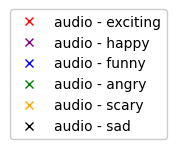
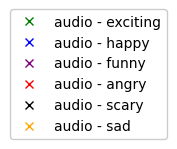
Updated visualization code.

diff --git a/climur/utils/visualize.py b/climur/utils/visualize.py
@@ -9,7 +9,7 @@ import matplotlib.pyplot as plt
 from typing import Dict
 
 
-def visualize_embeds(image_embeds: ndarray, image_labels: ndarray, audio_embeds: ndarray, audio_labels: ndarray, label2color: Dict, save_path: str) -> None:
+def visualize_embeds(image_embeds: ndarray, image_labels: ndarray, audio_embeds: ndarray, audio_labels: ndarray, label2color: Dict, save_path: str, plot_title: str) -> None:
     """Visualizes image and audio embeddings together with t-SNE.
 
     Args:
@@ -23,6 +23,7 @@ def visualize_embeds(image_embeds: ndarray, image_labels: ndarray, audio_embeds:
             shape: (n_audio_clips, )
         label2color (dict): Dictionary mapping emotion labels to colors.
         save_path (str): Path to save plot.
+        plot_title (str): Plot title.
     
     Returns: None
     """
@@ -61,7 +62,7 @@ def visualize_embeds(image_embeds: ndarray, image_labels: ndarray, audio_embeds:
     # create plot:
     fig = plt.figure()
     plt.rcParams["font.size"] = 10
-    ax = fig.add_subplot(111)     # what is this?
+    ax = fig.add_subplot(1, 1, 1)
 
     for label in emotion_labels:
         # get images t-SNE features for current emotion label:
@@ -70,7 +71,7 @@ def visualize_embeds(image_embeds: ndarray, image_labels: ndarray, audio_embeds:
         assert x_image_feats_curr.shape == y_image_feats_curr.shape, "Error with shape of per-class image t-SNE features."
 
         # add image points to scatter plot:
-        ax.scatter(x_image_feats_curr, y_image_feats_curr, c=label2color[label], marker=".", label=f"image - {label}")
+        ax.scatter(x_image_feats_curr, y_image_feats_curr, c=label2color[label], marker=".")
 
         # get audio t-SNE features for current emotion label:
         x_audio_feats_curr = x_audio_feats[audio_labels == label]
@@ -78,12 +79,12 @@ def visualize_embeds(image_embeds: ndarray, image_labels: ndarray, audio_embeds:
         assert x_audio_feats_curr.shape == y_audio_feats_curr.shape, "Error with shape of per-class audio t-SNE features."
 
         # add audio points to scatter plot:
-        ax.scatter(x_audio_feats_curr, y_audio_feats_curr, c=label2color[label], marker="x", label=f"audio - {label}")
+        ax.scatter(x_audio_feats_curr, y_audio_feats_curr, c=label2color[label], marker="x")
     
     # format plot:
     ax.set_xticks([])
     ax.set_yticks([])
-    ax.legend(loc="best")
+    ax.set_title(plot_title)
 
     # save plot:
     fig.savefig(save_path)

diff --git a/climur/utils/create_visualization_legend.py b/climur/utils/create_visualization_legend.py
@@ -4,8 +4,9 @@
 import os
 import numpy as np
 import matplotlib.pyplot as plt
-from climur.utils.constants import IMAGE2AUDIO_TAG_MAP
 from typing import List, Any
+from climur.utils.constants import IMAGE2AUDIO_TAG_MAP
+from climur.utils.constants import LABEL2COLOR
 
 
 # plots directory:
@@ -30,17 +31,16 @@ def export_legend(legend: Any, save_path: str, expand: List = [-5, -5, 5, 5]):
 if __name__ == "__main__":
     print("\n")
 
-    # set colors:
-    colors = ["red", "purple", "blue", "green", "orange", "black"]
     # create magical function:
     func = lambda m, c: plt.plot([], [], marker=m, color=c, ls="none")[0]
 
 
     # IMAGE DATASET LEGEND:
 
-    # get image dataset emotion labels:
+    # get image dataset emotion labels and colors:
     image_emotion_labels = [f"image - {label}" for label in list(IMAGE2AUDIO_TAG_MAP.keys())]
-    
+    colors = [LABEL2COLOR[IMAGE2AUDIO_TAG_MAP[label]] for label in list(IMAGE2AUDIO_TAG_MAP.keys())]
+
     # create legend:
     handles = [func(".", colors[i]) for i in range(len(colors))]
     legend = plt.legend(handles, image_emotion_labels, loc=3, framealpha=1, frameon=True)
@@ -53,9 +53,10 @@ if __name__ == "__main__":
 
 
     # AUDIO DATASET LEGEND:
-    
-    # get audio dataset emotion labels:
+
+    # get audio dataset emotion labels and colors:
     audio_emotion_labels = [f"audio - {label}" for label in list(IMAGE2AUDIO_TAG_MAP.values())]
+    colors = [LABEL2COLOR[label] for label in list(IMAGE2AUDIO_TAG_MAP.values())]
 
     # create legend:
     handles = [func("x", colors[i]) for i in range(len(colors))]

diff --git a/climur/scripts/visualization.py b/climur/scripts/visualization.py
@@ -31,7 +31,8 @@ from climur.utils.constants import (
     HARMONIC_CNN_EMBED_DIM,
     SAMPLE_CNN_EMBED_DIM,
     CLAP_EMBED_DIM,
-    SAMPLE_CNN_DEFAULT_PARAMS
+    SAMPLE_CNN_DEFAULT_PARAMS,
+    LABEL2COLOR
 )
 
 
@@ -322,13 +323,6 @@ if __name__ == "__main__":
     audio_labels = np.asarray(audio_labels, dtype=object)
     assert audio_labels.shape == (audio_cross_embeds.shape[0], ), "Error converting list to numpy array."
 
-    # create dictionary mapping emotion labels to colors:
-    emotion_labels = audio_dataset_tags
-    colors = ["red", "purple", "blue", "green", "orange", "black"]     # arbitrary colors
-    label2color = {}
-    for i in range(len(emotion_labels)):
-        label2color[emotion_labels[i]] = colors[i]
-    
     # visualize image and audio embeddings together:
     if verbose:
         print("\nVisualizing image and audio embeddings together...")
@@ -337,8 +331,9 @@ if __name__ == "__main__":
         image_labels=image_labels,
         audio_embeds=audio_cross_embeds,
         audio_labels=audio_labels,
-        label2color=label2color,
-        save_path=os.path.join(plots_dir, "image_audio_tsne.png")
+        label2color=LABEL2COLOR,
+        save_path=os.path.join(plots_dir, "image_audio_tsne.png"),
+        plot_title=eval_configs["plot_title"]
     )
 
 

diff --git a/climur/utils/constants.py b/climur/utils/constants.py
@@ -70,3 +70,16 @@ VCMR_DEFAULT_PARAMS = {
     "video_lstm_n_layers": 2
 }
 
+
+# VISUALIZATION CONSTANTS:
+
+# dictionary mapping emotion labels to colors:
+LABEL2COLOR = {
+    "exciting": "green",
+    "happy": "blue",
+    "funny": "purple",
+    "angry": "red",
+    "scary": "black",
+    "sad": "orange"
+}
+
